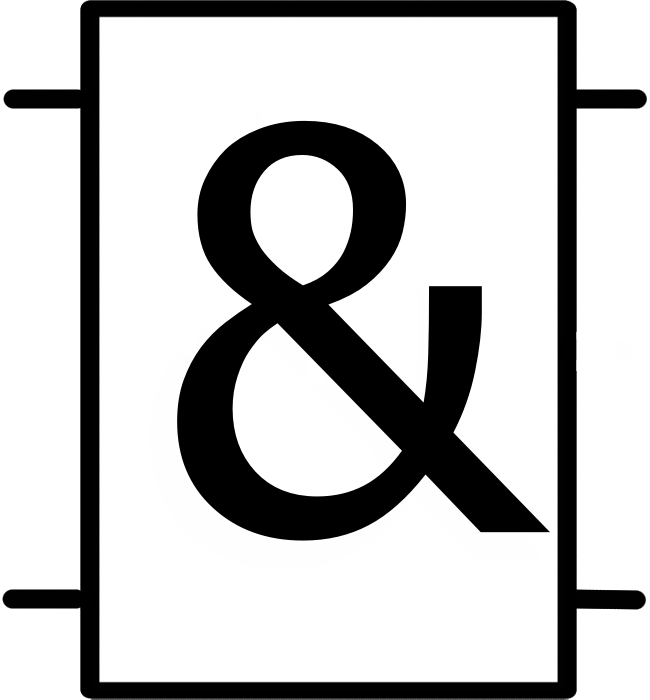
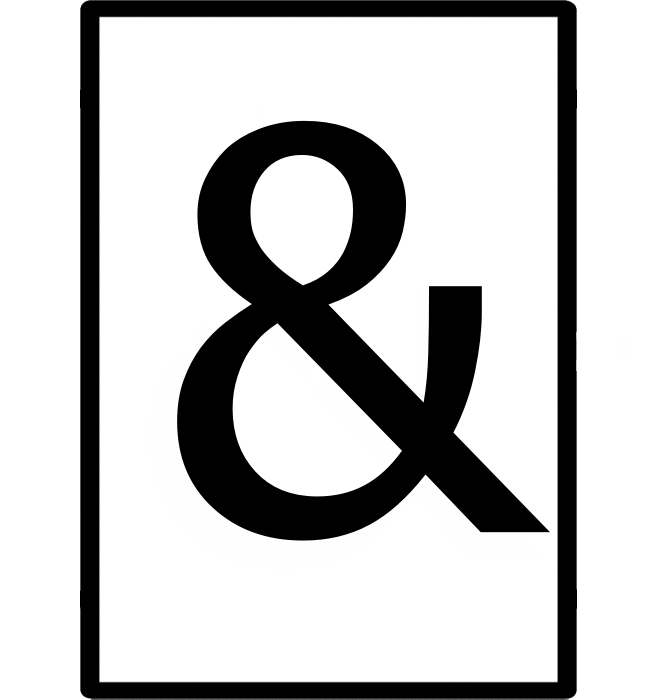
Cleanup and abgabeversion

diff --git a/Error_NameNotFound/ViewModel/AND.xaml b/Error_NameNotFound/ViewModel/AND.xaml
@@ -8,9 +8,9 @@
              d:DesignHeight="100" d:DesignWidth="100">
     <Grid>
         <Image Width="100" Height="100"   Name="ANDUI" Source="/Error_NameNotFound;component/Pictures/And.png"></Image>
-        <Button Width="10" Height="10" Margin="10,20,80,80" Name="input0" PreviewMouseLeftButtonDown="Input0_Click" MouseRightButtonDown="DelConnection_Input0"/>
-        <Button Width="10" Height="10" Margin="10,70,80,10" Name="input1" Click="Input1_Click" MouseRightButtonDown="DelConnection_Input1"/>
-        <Button Width="10" Height="10" Margin="80,20,10,80" Name="output1" Click="Output1_Click"/>
-        <Button Width="10" Height="10" Margin="80,70,10,10" Name="output0" Click="Output0_Click"/>
+        <Button Width="10" Height="10" Margin="10,20,80,70" Name="input0" PreviewMouseLeftButtonDown="Input0_Click" MouseRightButtonDown="DelConnection_Input0"/>
+        <Button Width="10" Height="10" Margin="10,70,80,20" Name="input1" Click="Input1_Click" MouseRightButtonDown="DelConnection_Input1"/>
+        <Button Width="10" Height="10" Margin="83,20,7,70" Name="output1" Click="Output1_Click"/>
+        <Button Width="10" Height="10" Margin="83,70,7,20" Name="output0" Click="Output0_Click"/>
     </Grid>
 </vm:Logicgatescontrol>

diff --git a/Error_NameNotFound/ViewModel/LogicButton.xaml b/Error_NameNotFound/ViewModel/LogicButton.xaml
@@ -8,7 +8,7 @@
              d:DesignHeight="50" d:DesignWidth="50">
     <Grid>
         <Image Width="50" Height="50" Name="ButtonUI" Source="/Error_NameNotFound;component/Pictures/LogicButton.png" MouseDown="ButtonUI_MouseDown"/>
-        <Button Width="10" Height="10" Name="output0" Click="Output0_Click" Margin="45,20,-5,20"/>
+        <Button Width="10" Height="10" Name="output0" Click="Output0_Click" Margin="40,20,0,20"/>
     </Grid>
 </vm:Logicgatescontrol>
 

diff --git a/Error_NameNotFound/Model/Gates/LogicGates.cs b/Error_NameNotFound/Model/Gates/LogicGates.cs
@@ -16,12 +16,12 @@ namespace Error_NameNotFound.Model
         public static List<LogicGates> gates_logic = new List<LogicGates>();
         public static List<int> connections = new List<int>();
         public static int outid = 0, outnr = 0, inid = 0, innr = 0, in_or_out = 0;
-        private static bool muell = false; 
+        private static bool muell = false;
         public bool in0, in1, in2, in3, in4, in5, in6, in7;
         public int id, prozessnr;
         protected ObservableCollection<bool> input;
         protected ObservableCollection<bool> output;
-        public LogicGates(int input, int output, int id)
+        public LogicGates(int input, int output, int id)        //Konstruktor benötigt eine inputanzahl, eine outputanzahl, eine einzigartige id
         {
             prozessnr = 0;
             in0 = false;
@@ -35,11 +35,11 @@ namespace Error_NameNotFound.Model
             this.id = id;
             this.input = new ObservableCollection<bool>();
             this.output = new ObservableCollection<bool>();
-            for (int i = 0; i < input; i++)
+            for (int i = 0; i < input; i++)                     //setze alle inputs nach anzahl inputs standartmäßig auf false
             {
                 this.input.Add(false);
             }
-            for (int i = 0; i < output; i++)
+            for (int i = 0; i < output; i++)                    //setze alle outputs nach anzahl outputs standartmäßig auf false
             {
                 this.output.Add(false);
             }
@@ -70,12 +70,11 @@ namespace Error_NameNotFound.Model
             set
             {
                 output = value;
-                //gates_logic[connectorid].Input[inputid] = output[outputid];
                 NotifyPropertyChanged();
             }
         }
 
-        public bool Connection()
+        public bool Connection()                                    // erstelle eine verbindung zwischen Bausteinen, falls der eingang noch keine verbindung hat
         {
             bool merke = true;
             for (int i = 2; i < connections.Count; i += 4)
@@ -89,10 +88,10 @@ namespace Error_NameNotFound.Model
             if (merke)
             {
                 Inenabled(innr, inid) = true;
-                connections.Add(outid);
-                connections.Add(outnr);
-                connections.Add(inid);
-                connections.Add(innr);
+                connections.Add(outid); //      0 = connection output id = outid
+                connections.Add(outnr); //      1 = connection output nr = outnr
+                connections.Add(inid);  //      2 = connection input id  = inid
+                connections.Add(innr);  //      3 = connection input nr  = innr
                 prozessnr = MainWindow.prozessid;
                 Prozesstoken start = new Prozesstoken(MainWindow.prozessid);
                 MainWindow.prozessid++;
@@ -102,14 +101,14 @@ namespace Error_NameNotFound.Model
             ChangeColor();
             return false;
         }
-        public static ref bool Inenabled(int innr,int inid)
+        public static ref bool Inenabled(int innr, int inid)                             //merker ob eingang bereits benutzt oder nicht
         {
             switch (innr)
             {
                 case 0:
                     return ref LogicGates.gates_logic.FirstOrDefault(c => c.id == inid).in0;
                 case 1:
-                   return ref LogicGates.gates_logic.FirstOrDefault(c => c.id == inid).in1;
+                    return ref LogicGates.gates_logic.FirstOrDefault(c => c.id == inid).in1;
                 case 2:
                     return ref LogicGates.gates_logic.FirstOrDefault(c => c.id == inid).in2;
                 case 3:
@@ -127,13 +126,13 @@ namespace Error_NameNotFound.Model
             }
         }
 
-        public void DelConnections(int iid, int inr)
+        public void DelConnections(int iid, int inr)                            //Lösche verbindung, die mit dem eingang zu tun haben, wenn vorhanden und setze eingangsmerker auf false
         {
             for (int i = 2; i < connections.Count; i += 4)
             {
                 if (connections[i] == iid && connections[i + 1] == inr)
                 {
-                    switch (innr)
+                    switch (inr)
                     {
                         case 0:
                             LogicGates.gates_logic.FirstOrDefault(c => c.id == iid).in0 = false;
@@ -172,29 +171,7 @@ namespace Error_NameNotFound.Model
             }
         }
 
-        //protected void Connectedset(int id)
-        //{
-        //    for (int i = 0; i < connections.Count; i += 4)
-        //    {
-        //        //connections.Add(id);
-        //        //connections.Add(onr);
-        //        //connections.Add(iid);
-        //        //connections.Add(inr);
-        //        //var temp = LogicGates.gates_logic.FirstOrDefault(c => c.id == i);
-        //        //if (temp!=null)
-        //        if (connections[i] == id)
-        //        {
-        //            var temp1 = LogicGates.gates_logic.FirstOrDefault(c => c.id == connections[i + 2]);
-        //            var temp2 = LogicGates.gates_logic.FirstOrDefault(c => c.id == id);
-        //            if (temp1.Input[connections[i + 3]] != output[connections[i + 1]])
-        //            {
-        //                temp1.Inputset(temp2.output[connections[i + 1]], connections[i + 3]);
-        //            }
-        //        }
-        //    }
-        //}
-
-        public static string Get_Connections
+        public static string Get_Connections                //übergabewert für das speichern von verbindungen
         {
             get
             {
@@ -208,13 +185,13 @@ namespace Error_NameNotFound.Model
                 return allconnections;
             }
         }
-        public static void Remove_connections(int id)
+        public static void Remove_connections(int id)               //löscht alle verbindngen die mit diesem baustein zu tun haben
         {
-            for (int i = 0; i < connections.Count-3; i += 4)
+            for (int i = 0; i < connections.Count - 3; i += 4)
             {
                 if (id == connections[i])
                 {
-                    LogicGates.gates_logic.FirstOrDefault(c => c.id == connections[i+2]).basevalue(connections[i+3]);
+                    LogicGates.gates_logic.FirstOrDefault(c => c.id == connections[i + 2]).basevalue(connections[i + 3]);
                     switch (innr)
                     {
                         case 0:
@@ -284,7 +261,7 @@ namespace Error_NameNotFound.Model
                         default:
                             break;
                     }
-                    LogicGates.gates_logic.FirstOrDefault(c => c.id == connections[i]).basevalue(connections[i+1]);
+                    LogicGates.gates_logic.FirstOrDefault(c => c.id == connections[i]).basevalue(connections[i + 1]);
                     connections.RemoveAt(i - 2);
                     connections.RemoveAt(i - 2);
                     connections.RemoveAt(i - 2);

diff --git a/Error_NameNotFound/ViewModel/AND.xaml.cs b/Error_NameNotFound/ViewModel/AND.xaml.cs
@@ -25,7 +25,7 @@ namespace Error_NameNotFound
     public partial class AND : Logicgatescontrol
     {
         private L_And l_and;
-        public AND() :base()
+        public AND() : base()
         {
             InitializeComponent();
             Name = "ANDUI";
@@ -60,7 +60,7 @@ namespace Error_NameNotFound
             bool success = Inputbutton_vm.Input_Click(id, 0);
             if (success)
                 input0.Background = System.Windows.Media.Brushes.Yellow;
-            StartCableDrag();
+            //StartCableDrag();
         }
         private void Input1_Click(object sender, RoutedEventArgs e)
         {
@@ -93,25 +93,25 @@ namespace Error_NameNotFound
             Dispatcher.Invoke(() =>
             {
                 // Set property or change UI compomponents.              
-            if (LogicGates.gates_logic.FirstOrDefault(c => c.id == id).Input[0])
-                input0.Background = System.Windows.Media.Brushes.Red;
-            else
-                input0.Background = System.Windows.Media.Brushes.MediumPurple;
+                if (LogicGates.gates_logic.FirstOrDefault(c => c.id == id).Input[0])
+                    input0.Background = System.Windows.Media.Brushes.Red;
+                else
+                    input0.Background = System.Windows.Media.Brushes.MediumPurple;
 
-            if (LogicGates.gates_logic.FirstOrDefault(c => c.id == id).Input[1])
-                input1.Background = System.Windows.Media.Brushes.Red;
-            else
-                input1.Background = System.Windows.Media.Brushes.MediumPurple;
+                if (LogicGates.gates_logic.FirstOrDefault(c => c.id == id).Input[1])
+                    input1.Background = System.Windows.Media.Brushes.Red;
+                else
+                    input1.Background = System.Windows.Media.Brushes.MediumPurple;
 
-            if (LogicGates.gates_logic.FirstOrDefault(c => c.id == id).Output[0])
-                output0.Background = System.Windows.Media.Brushes.Red;
-            else
-                output0.Background = System.Windows.Media.Brushes.MediumPurple;
+                if (LogicGates.gates_logic.FirstOrDefault(c => c.id == id).Output[0])
+                    output0.Background = System.Windows.Media.Brushes.Red;
+                else
+                    output0.Background = System.Windows.Media.Brushes.MediumPurple;
 
-            if (LogicGates.gates_logic.FirstOrDefault(c => c.id == id).Output[1])
-                output1.Background = System.Windows.Media.Brushes.Red;
-            else
-                output1.Background = System.Windows.Media.Brushes.MediumPurple;
+                if (LogicGates.gates_logic.FirstOrDefault(c => c.id == id).Output[1])
+                    output1.Background = System.Windows.Media.Brushes.Red;
+                else
+                    output1.Background = System.Windows.Media.Brushes.MediumPurple;
             });
         }
     }

diff --git a/Error_NameNotFound/ViewModel/Inputbutton_vm.cs b/Error_NameNotFound/ViewModel/Inputbutton_vm.cs
@@ -8,7 +8,7 @@ using System.Windows.Input;
 
 namespace Error_NameNotFound.ViewModel
 {
-    class Inputbutton_vm 
+    class Inputbutton_vm
     {
         public Inputbutton_vm() { }
         public static bool Input_Click(int id, int innr)
@@ -18,7 +18,7 @@ namespace Error_NameNotFound.ViewModel
                 case 0:
                     LogicGates.inid = id;
                     LogicGates.innr = innr;
-                    if (!LogicGates.Inenabled(innr,id))
+                    if (!LogicGates.Inenabled(innr, id))
                     {
                         LogicGates.in_or_out = 2;
                         return true;

diff --git a/Error_NameNotFound/ViewModel/Outputbutton_vm.cs b/Error_NameNotFound/ViewModel/Outputbutton_vm.cs
@@ -17,8 +17,8 @@ namespace Error_NameNotFound.Model
                     LogicGates.outnr = outnr;
                     LogicGates.in_or_out = 1;
                     return true;
-                    //output0.Background = System.Windows.Media.Brushes.Yellow;
-                    break;
+                //output0.Background = System.Windows.Media.Brushes.Yellow;
+                //break;
                 case 2:
                     LogicGates.outid = id;
                     LogicGates.outnr = outnr;
